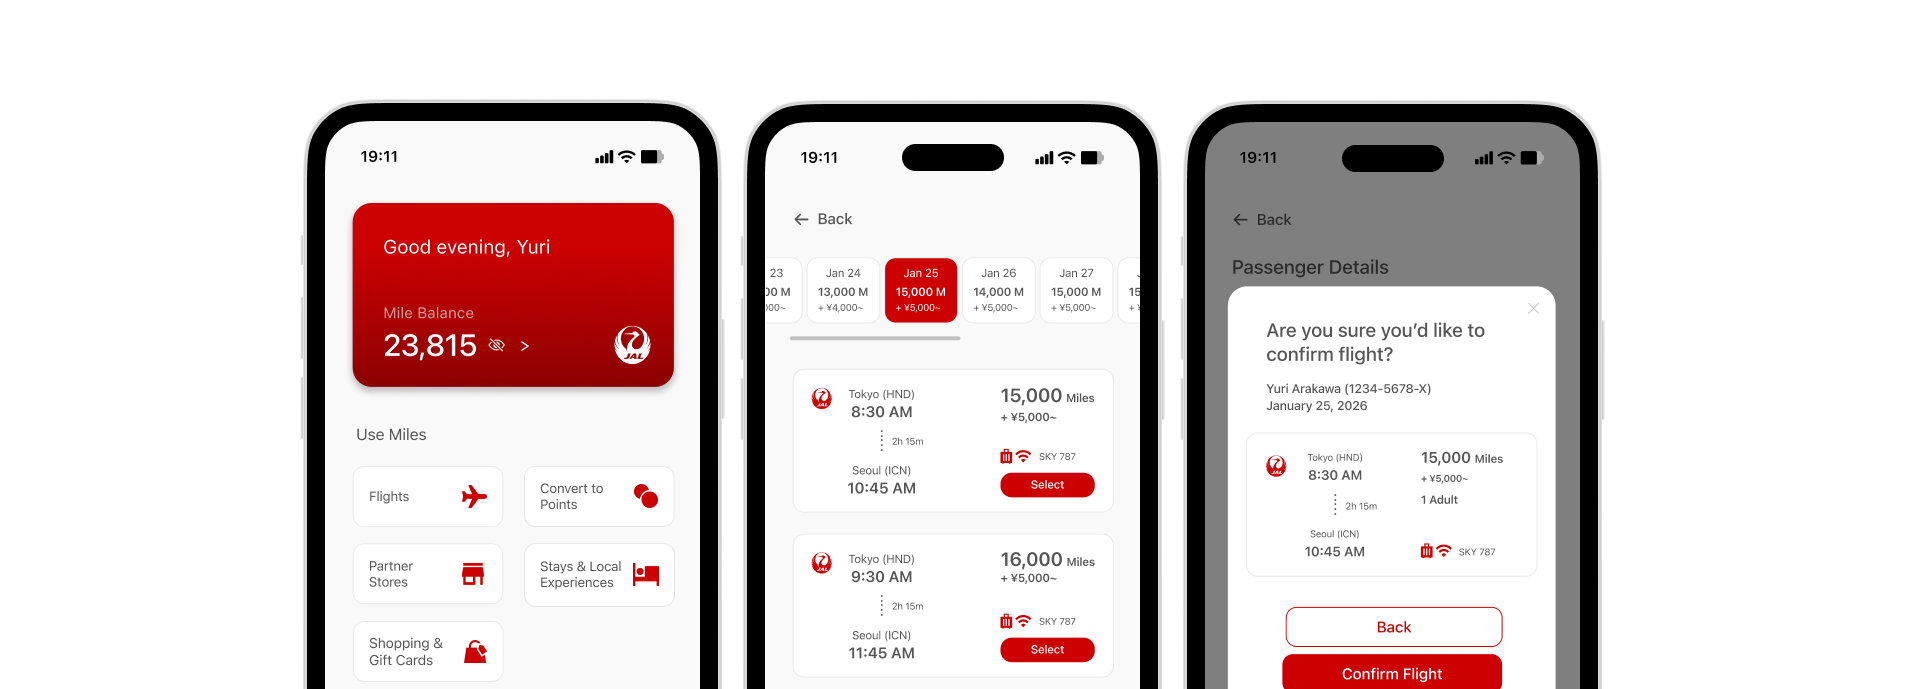
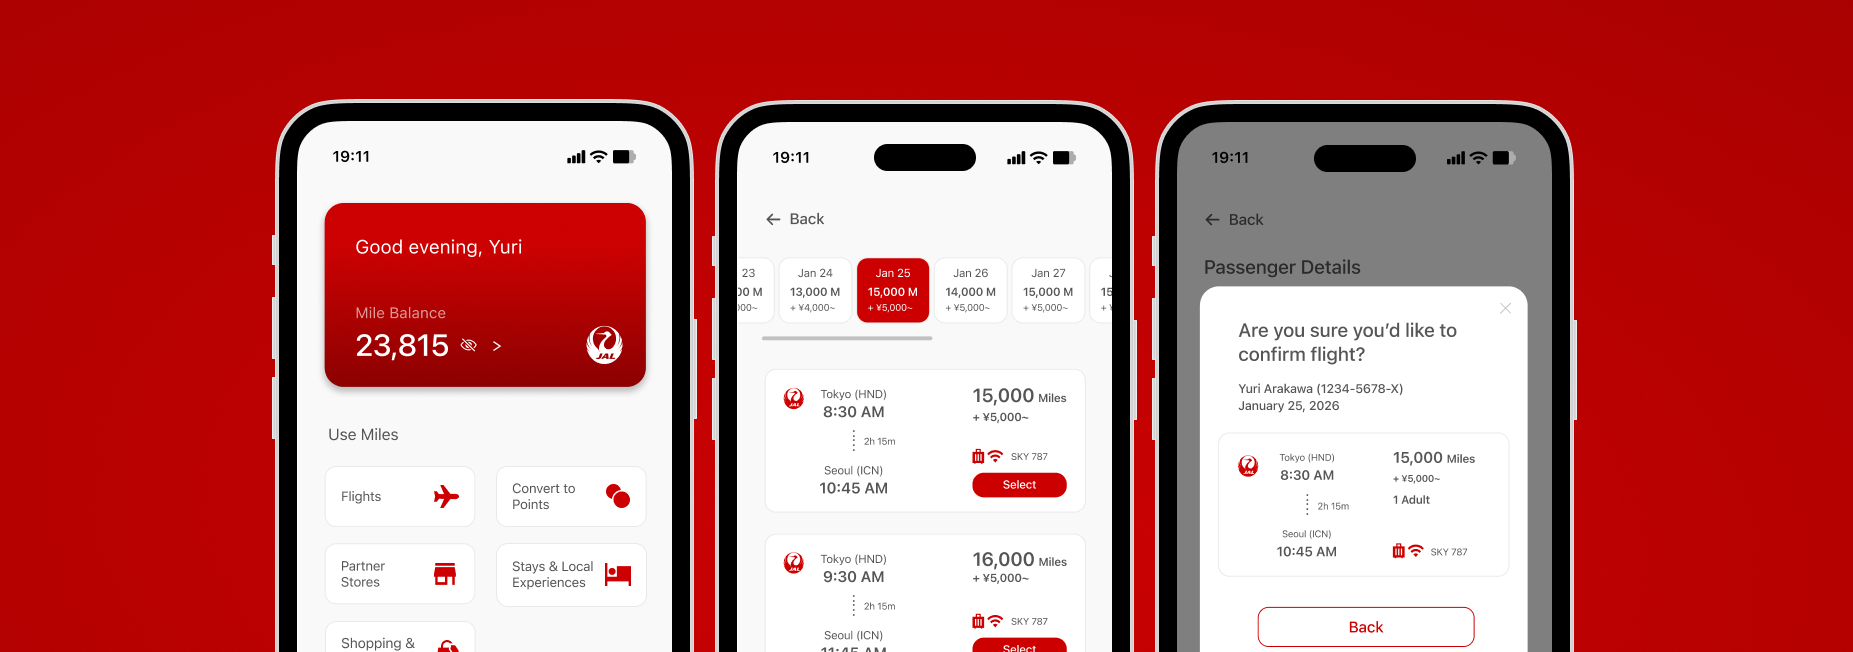
Add files via upload

diff --git a/bumble.html b/bumble.html
@@ -32,7 +32,9 @@
           <p class="eyebrow">UX Case Study</p>
           <h1>
             Bumble<br />
-            <span class="h1-small">Japanese Localization /<br />UX Improvement</span>
+            <span class="h1-small"
+              >Japanese Localization /<br />UX Improvement</span
+            >
           </h1>
         </div>
       </section>
@@ -41,21 +43,20 @@
         <div class="case-study-copy">
           <p class="section-index">Problem</p>
           <p>
-            Japanese UI often sounds machine-translated or unnaturally
-            localized. This can lead to lower user trust and fewer
-            subscriptions. By adopting more natural translations and a
+            Japanese UI often sounds <strong>machine-translated or unnaturally
+            localized</strong>. This can lead to <strong>lower user trust and fewer
+            subscriptions</strong>. By adopting more natural translations and a
             Japanese-friendly UI, Bumble has an opportunity to strengthen its
-            presence in the Japanese market and improve user conversion and
-            retention.
+            presence in the Japanese market and <strong>improve user conversion and
+            retention</strong>.
           </p>
         </div>
         <div class="case-study-copy">
           <p class="section-index">Is Japan that important?</p>
           <ul class="case-study-list">
             <li>
-              Japan is the world's second-largest dating app market, valued
-              at US$2.3B in 2025, behind only the United States (Financial
-              Times).
+              Japan is the <strong>world's second-largest dating app market</strong>, valued at
+              <strong>US$2.3B in 2025</strong>, behind only the United States (Financial Times).
             </li>
             <li>
               In 2020, 28.3% of Japanese men and 17.8% of Japanese women
@@ -69,8 +70,8 @@
             </li>
           </ul>
           <p>
-            Together, these demographic trends highlight the continued
-            growth potential of Japan's online dating market.
+            Together, these demographic trends highlight <strong>the continued growth
+            potential of Japan's online dating market</strong>.
           </p>
         </div>
       </section>
@@ -78,20 +79,21 @@
       <section class="case-study-section section--reverse">
         <div class="case-study-copy">
           <p class="section-index">Example 1</p>
-          <p class="subhead"><strong>Changes</strong></p>
+          <p class="subhead">
+            <p>Original (left) and redesigned (right).</p><strong>Changes</strong>
+          </p>
           <ul class="case-study-list">
             <li>A clearer line break in the header.</li>
             <li>
-              Split the caption into two sentences to eliminate redundancy
-              and make the copy sound more natural.
+              Split the caption into two sentences to eliminate redundancy and
+              make the copy sound more natural.
             </li>
           </ul>
           <p class="subhead"><strong>User Impact</strong></p>
           <ul class="case-study-list">
             <li>
-              A deliberate line break and natural-sounding copy make it
-              easier to read and prevent the UI from feeling translated or
-              "foreign."
+              A deliberate line break and natural-sounding copy make it easier
+              to read and prevent the UI from feeling translated or "foreign."
             </li>
           </ul>
         </div>
@@ -110,7 +112,7 @@
       <section class="case-study-section section--reverse">
         <div class="case-study-copy">
           <p class="section-index">Example 2</p>
-          <p class="subhead"><strong>Changes</strong></p>
+          <p class="subhead"><p>Original (left) and redesigned (right).</p><strong>Changes</strong></p>
           <ul class="case-study-list">
             <li>
               Standardized the use of the full-width exclamation mark（！）
@@ -122,9 +124,9 @@
           <p class="subhead"><strong>User Impact</strong></p>
           <ul class="case-study-list">
             <li>
-              Unnatural translation can make the service feel less
-              trustworthy. Natural, polished copy encourages users to commit
-              to subscriptions.
+              Unnatural translation can make the service feel less trustworthy.
+              Natural, polished copy encourages users to commit to
+              subscriptions.
             </li>
           </ul>
         </div>
@@ -143,20 +145,20 @@
       <section class="case-study-section section--reverse">
         <div class="case-study-copy">
           <p class="section-index">Example 3</p>
-          <p class="subhead"><strong>Changes</strong></p>
+          <p class="subhead"><p>Original (left) and redesigned (right).</p><strong>Changes</strong></p>
           <ul class="case-study-list">
             <li>
-              Replaced half-width symbols ([], /) with formatting that
-              better aligns with Japanese typography.
+              Replaced half-width symbols ([], /) with formatting that better
+              aligns with Japanese typography.
             </li>
             <li>Tightened the wording to improve readability.</li>
           </ul>
           <p class="subhead"><strong>User Impact</strong></p>
           <ul class="case-study-list">
             <li>
-              Reducing visual and cognitive load makes the ad easier to
-              scan, creating a smoother user experience and potentially
-              improving conversion rates.
+              Reducing visual and cognitive load makes the ad easier to scan,
+              creating a smoother user experience and potentially improving
+              conversion rates.
             </li>
           </ul>
         </div>
@@ -175,19 +177,19 @@
       <section class="case-study-section section--reverse">
         <div class="case-study-copy">
           <p class="section-index">Example 4</p>
-          <p class="subhead"><strong>Changes</strong></p>
+          <p class="subhead"><p>Original (left) and redesigned (right).</p><strong>Changes</strong></p>
           <ul class="case-study-list">
             <li>
-              Added a soft CTA using invitational language (common in
-              Japanese advertising) to the hero copy.
+              Added a soft CTA using invitational language (common in Japanese
+              advertising) to the hero copy.
             </li>
             <li>Tightened the wording to improve readability.</li>
           </ul>
           <p class="subhead"><strong>User Impact</strong></p>
           <ul class="case-study-list">
             <li>
-              An invitational CTA feels more polite and approachable than
-              the original version, making it better suited to Japanese
+              An invitational CTA feels more polite and approachable than the
+              original version, making it better suited to Japanese
               communication styles.
             </li>
           </ul>
@@ -210,9 +212,8 @@
           <p class="subhead"><strong>Changes</strong></p>
           <ul class="case-study-list">
             <li>
-              Fixed translation errors (e.g., "confidence" had been
-              translated as "credibility," which changes the intended
-              meaning).
+              Fixed translation errors (e.g., "confidence" had been translated
+              as "credibility," which changes the intended meaning).
             </li>
           </ul>
           <p class="subhead"><strong>User Impact</strong></p>
@@ -250,9 +251,9 @@
           <p class="subhead"><strong>User Impact</strong></p>
           <ul class="case-study-list">
             <li>
-              When prompts feel familiar and natural, users are more likely
-              to engage with them and add them to their profiles, leading to
-              a more enjoyable user experience.
+              When prompts feel familiar and natural, users are more likely to
+              engage with them and add them to their profiles, leading to a more
+              enjoyable user experience.
             </li>
           </ul>
         </div>
@@ -273,14 +274,14 @@
           <p class="section-index">Reflection</p>
           <p>
             This project reinforced that localization is about far more than
-            swapping words for their dictionary equivalents. The same
-            sentence can be grammatically correct and still feel foreign, cold,
-            or untrustworthy if it ignores the conventions, tone, and cultural
-            expectations of its audience. Working through each of these
-            examples made it clear how much small, easy-to-overlook details —
-            a line break, a full-width punctuation mark, a more familiar word
-            choice — add up to whether a product feels like it was built for
-            its users or simply translated for them.
+            swapping words for their dictionary equivalents. The same sentence
+            can be grammatically correct and still feel foreign, cold, or
+            untrustworthy if it ignores the conventions, tone, and cultural
+            expectations of its audience. Working through each of these examples
+            made it clear how much small, easy-to-overlook details — a line
+            break, a full-width punctuation mark, a more familiar word choice —
+            add up to whether a product feels like it was built for its users or
+            simply translated for them.
           </p>
         </div>
       </section>

diff --git a/jal-card-app.html b/jal-card-app.html
@@ -38,6 +38,7 @@
             hierarchy to make mile redemption intuitive while preserving the
             excitement of travel.
           </p>
+          <p class="lead">Original (left) and redesigned (right).</p>
         </div>
         <div class="case-study-media case-study-media--pair">
           <img
@@ -65,6 +66,7 @@
               interface made them feel exhausted</strong
             >, and one of them even gave up traveling.
           </p>
+          <p class="lead">Original screens for mile redemption.</p>
         </div>
         <div
           class="case-study-media case-study-media--small case-study-media--pair"
@@ -142,13 +144,14 @@
               <strong>The mile usage navigation</strong> was turned into a
               dedicated page, creating a smoother transition with a consistent
               format using a card-based layout. Options are grouped by category
-              with icons rather than listed in a flat structure.
+              with icons rather than listed in a flat structure. Original (left)
+              and redesigned (right).
             </p>
             <p>
               <strong>On the flight options page,</strong> airline icons, miles,
               travel times, and CTA buttons are laid out with clear priority.
               The signature red draws the eye directly to the action the user
-              needs to take next.
+              needs to take next. Original (left) and redesigned (right).
             </p>
             <div class="case-study-image-pair case-study-image-pair--small">
               <img

diff --git a/js/content.js b/js/content.js
@@ -27,16 +27,16 @@ const SITE_CONTENT = {
   // Case study project cards shown on the home page.
   cards: [
     {
-      title: "Bumble",
-      subtitle: "Japanese localization & UX improvement",
-      image: "assets/img/bumble-thumb.png",
-      href: "bumble.html",
-    },
-    {
       title: "JAL Card App",
       subtitle: "Credit card mileage app reconstruction",
       image: "assets/img/jal-thumb.png",
       href: "jal-card-app.html",
+    },
+    {
+      title: "Bumble",
+      subtitle: "Japanese localization & UX improvement",
+      image: "assets/img/bumble-thumb.png",
+      href: "bumble.html",
     },
     {
       title: "Ethical Pay",

diff --git a/index.html b/index.html
@@ -40,7 +40,7 @@
             becomes a tool for problem-solving. I pick up new tools quickly, and
             work best in fast-moving environments.
           </p>
-          <p>Currently seeking UXUI/product design internship opportunities.</p>
+          <p>Currently seeking UXUI/product design opportunities.</p>
         </div>
         <div class="about-image">
           <img src="assets/img/about-me.png" alt="About me" />
